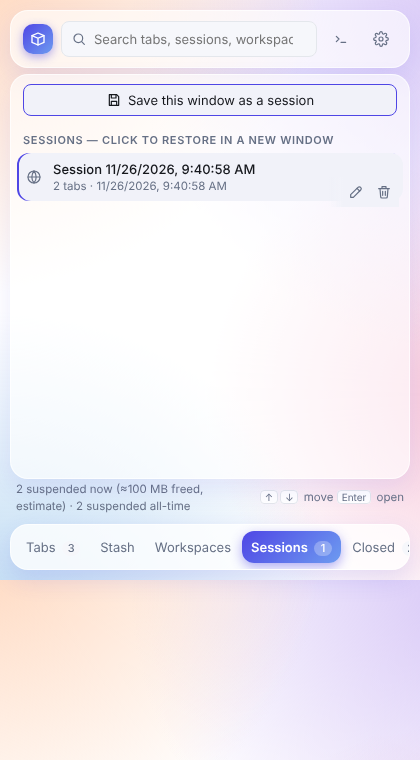
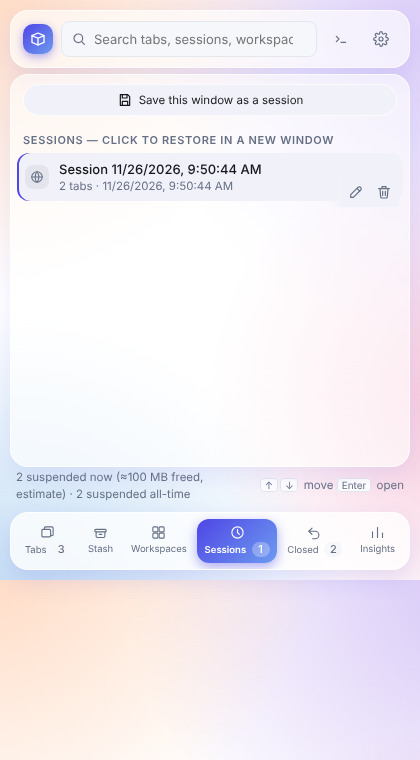
Tighten popup styling to match the Glass Morning mockup
Add icons to the view-switcher tabs (icon-over-label, matching the
bottom nav mockup), restyle the toolbar as wrapping glass pill chips
instead of flat full-width buttons, keep Panic visibly red-tinted at
rest, and give favicons a soft tinted circle. Screenshots refreshed.

diff --git a/src/entrypoints/popup/index.html b/src/entrypoints/popup/index.html
@@ -17,12 +17,30 @@
       <button id="gear" class="icon" title="Settings" aria-label="Settings"></button>
     </header>
     <nav id="nav" role="tablist">
-      <button role="tab" data-view="tabs" aria-selected="true">Tabs <span class="count" data-count="tabs"></span></button>
-      <button role="tab" data-view="stash" aria-selected="false">Stash <span class="count" data-count="stash"></span></button>
-      <button role="tab" data-view="workspaces" aria-selected="false">Workspaces <span class="count" data-count="workspaces"></span></button>
-      <button role="tab" data-view="sessions" aria-selected="false">Sessions <span class="count" data-count="sessions"></span></button>
-      <button role="tab" data-view="closed" aria-selected="false">Closed <span class="count" data-count="closed"></span></button>
-      <button role="tab" data-view="insights" aria-selected="false">Insights</button>
+      <button role="tab" data-view="tabs" aria-selected="true">
+        <svg width="15" height="15" viewBox="0 0 24 24" aria-hidden="true"><rect x="3" y="7" width="14" height="12" rx="2"/><path d="M7 7V5a2 2 0 0 1 2-2h10a2 2 0 0 1 2 2v10a2 2 0 0 1-2 2h-2"/></svg>
+        <span>Tabs <span class="count" data-count="tabs"></span></span>
+      </button>
+      <button role="tab" data-view="stash" aria-selected="false">
+        <svg width="15" height="15" viewBox="0 0 24 24" aria-hidden="true"><rect x="3" y="7" width="18" height="4" rx="1.5"/><path d="M5 11v7a2 2 0 0 0 2 2h10a2 2 0 0 0 2-2v-7"/><path d="M10 15h4"/></svg>
+        <span>Stash <span class="count" data-count="stash"></span></span>
+      </button>
+      <button role="tab" data-view="workspaces" aria-selected="false">
+        <svg width="15" height="15" viewBox="0 0 24 24" aria-hidden="true"><rect x="3" y="3" width="8" height="8" rx="1.5"/><rect x="13" y="3" width="8" height="8" rx="1.5"/><rect x="3" y="13" width="8" height="8" rx="1.5"/><rect x="13" y="13" width="8" height="8" rx="1.5"/></svg>
+        <span>Workspaces <span class="count" data-count="workspaces"></span></span>
+      </button>
+      <button role="tab" data-view="sessions" aria-selected="false">
+        <svg width="15" height="15" viewBox="0 0 24 24" aria-hidden="true"><circle cx="12" cy="12" r="9"/><path d="M12 7v5l3 3"/></svg>
+        <span>Sessions <span class="count" data-count="sessions"></span></span>
+      </button>
+      <button role="tab" data-view="closed" aria-selected="false">
+        <svg width="15" height="15" viewBox="0 0 24 24" aria-hidden="true"><path d="M3 10h10a6 6 0 0 1 0 12H9"/><path d="M8 5 3 10l5 5"/></svg>
+        <span>Closed <span class="count" data-count="closed"></span></span>
+      </button>
+      <button role="tab" data-view="insights" aria-selected="false">
+        <svg width="15" height="15" viewBox="0 0 24 24" aria-hidden="true"><path d="M4 20V11"/><path d="M12 20V4"/><path d="M20 20v-7"/></svg>
+        <span>Insights</span>
+      </button>
     </nav>
     <main id="main"></main>
     <p id="toast" role="status" aria-live="polite"></p>

diff --git a/src/entrypoints/popup/style.css b/src/entrypoints/popup/style.css
@@ -91,7 +91,11 @@ nav {
   animation: rise .34s var(--ease) both;
 }
 nav::-webkit-scrollbar { display: none; }
-nav button { flex: 1 0 auto; white-space: nowrap; border: 0; border-radius: 12px; color: var(--muted); padding: 7px 9px; background: none; }
+nav button {
+  flex: 1 0 auto; display: flex; flex-direction: column; align-items: center; gap: 2px; white-space: nowrap;
+  border: 0; border-radius: 12px; color: var(--muted); padding: 6px 7px; background: none; font-size: 9.5px;
+}
+nav button svg { width: 15px; height: 15px; }
 nav button:hover { color: var(--fg); background: var(--hover); transform: none; }
 nav button[aria-selected='true'] {
   color: var(--accent-fg); background: linear-gradient(135deg, var(--accent), var(--accent-2));
@@ -109,10 +113,14 @@ main {
   box-shadow: 0 10px 26px color-mix(in srgb, var(--accent) 10%, transparent);
   animation: rise .26s var(--ease) both;
 }
-.toolbar { display: grid; grid-template-columns: repeat(2, 1fr); gap: 6px; padding: 10px 12px 4px; }
-.toolbar button { display: flex; align-items: center; justify-content: center; gap: 6px; padding: 6px 8px; white-space: nowrap; background: var(--surface); }
+.toolbar { display: flex; flex-wrap: wrap; gap: 6px; padding: 10px 12px 4px; }
+.toolbar button {
+  display: flex; align-items: center; justify-content: center; gap: 6px; flex: 1 1 auto; padding: 7px 12px; white-space: nowrap;
+  border-radius: 999px; background: var(--glass); border-color: var(--glass-border); font-size: 11.5px;
+}
 .toolbar button:hover { background: var(--hover); }
-.toolbar.single { grid-template-columns: 1fr; }
+.toolbar.single button { flex-basis: 100%; }
+.toolbar button.panic { color: var(--danger); border-color: color-mix(in srgb, var(--danger) 35%, transparent); background: color-mix(in srgb, var(--danger) 10%, var(--glass)); }
 
 .filters { display: flex; flex-wrap: wrap; gap: 6px; padding: 8px 12px 0; }
 .filters button { padding: 2px 10px; border-radius: 999px; font-size: 12px; color: var(--muted); }
@@ -134,7 +142,8 @@ li:nth-child(7) { animation-delay: 120ms; } li:nth-child(8) { animation-delay: 1
 li:nth-child(n+10) { animation-delay: 180ms; }
 li:hover { background: var(--hover); transform: translateX(2px); }
 li[aria-selected='true'] { background: var(--hover); box-shadow: inset 2px 0 0 var(--accent); }
-li .fav { width: 18px; height: 18px; flex: none; display: grid; place-items: center; color: var(--muted); }
+li .fav { width: 24px; height: 24px; flex: none; display: grid; place-items: center; color: var(--muted); border-radius: 8px; background: color-mix(in srgb, var(--fg) 6%, transparent); }
+li .fav svg { width: 14px; height: 14px; }
 li .fav img { width: 16px; height: 16px; border-radius: 3px; }
 li .t { flex: 1; min-width: 0; }
 li .t b, li .t small { display: block; overflow: hidden; text-overflow: ellipsis; white-space: nowrap; }
